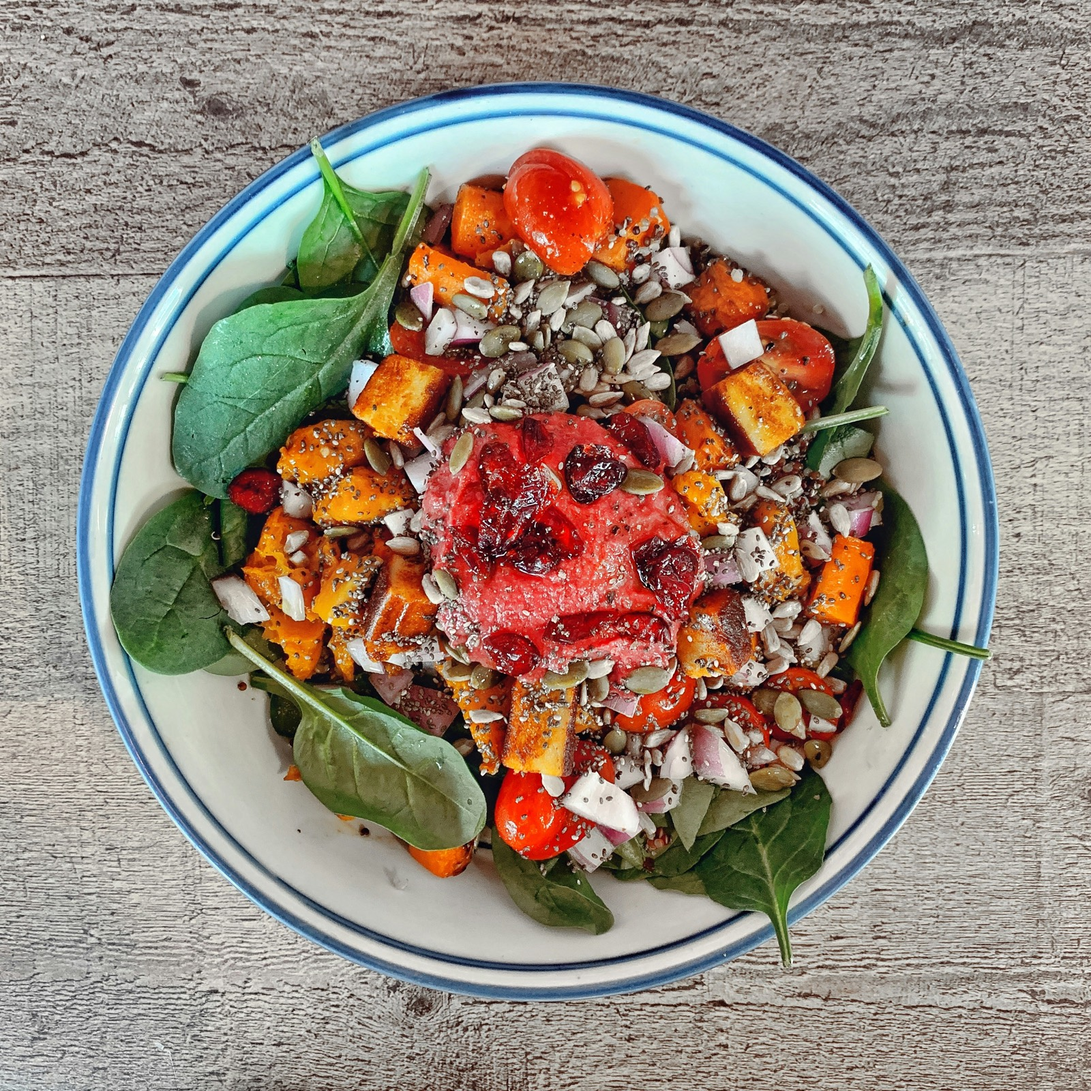
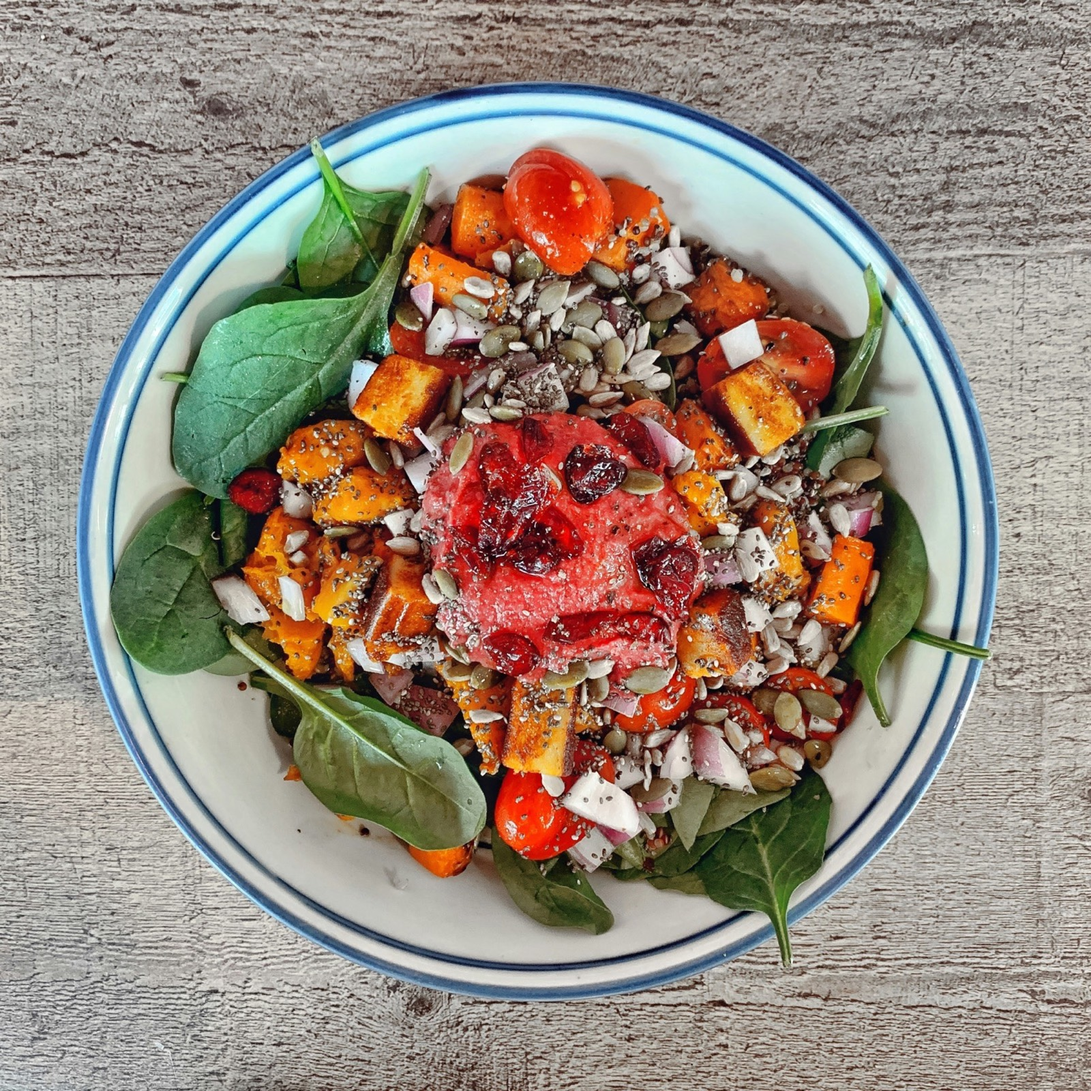
Image changes, page enhancements

Changed region(s): [[0.4688, 0.4375, 0.5, 0.4688]]

diff --git a/app/page.tsx b/app/page.tsx
@@ -12,7 +12,7 @@ const greatVibes = Great_Vibes({
   weight: "400",
 });
 
-const photoImagePaths = ["/food-optimized.jpg", "/food-optimized.jpg", "/food-optimized.jpg"];
+const photoImagePaths = ["/standing_couple_hero.jpg", "/chest_couple_bottom2.jpg", "/ring_2_bottom2.jpg"];
 
 export default function Home() {
   const [locale, setLocale] = useState<Locale>("fr");
@@ -52,7 +52,7 @@ export default function Home() {
         coupleNames: "Georges & Christella",
         heroKicker: "Nous nous marions",
         heroDate: "15 août 2026",
-        intro: "Nous saurions ravis de célébrer ce moment avec vous. Merci de confirmer votre présence ci-dessous.",
+        intro: <>Nous saurions ravis de célébrer ce moment avec vous. Merci de confirmer votre présence ci-dessous avant le <strong>1er juillet 2026</strong>.</>,
         announcement: (
           <>
             C&apos;est avec une immense joie que les familles de <strong>Samuel Simon Boum</strong> et{" "}
@@ -151,26 +151,34 @@ export default function Home() {
               </div>
             </div>
 
-            <div className="hidden gap-3 sm:grid sm:grid-cols-3">
-              {photoImagePaths.slice(0, 3).map((src, index) => (
-                <figure
-                  key={index}
-                  className={`group relative overflow-hidden rounded-2xl bg-[var(--surface-soft)] shadow-[0_10px_30px_rgba(51,44,48,0.08)] ${
-                    index === 1 ? "aspect-[3/4] -mt-3 shadow-[0_14px_36px_rgba(51,44,48,0.14)]" : "aspect-[4/5] mt-3"
-                  }`}
-                >
-                  <Image
-                    src={src}
-                    alt={t.heroPhotoAlts[index] ?? `Couple photo ${index + 1}`}
-                    fill
-                    className={`object-cover transition duration-500 ${
-                      index === 1 ? "scale-[1.03] saturate-110" : "group-hover:scale-[1.02]"
-                    }`}
-                    sizes="(min-width: 1024px) 320px, (min-width: 640px) 33vw, 100vw"
-                    priority={index === 1}
-                  />
-                </figure>
-              ))}
+            <div className="hidden w-full space-y-3 sm:block">
+              <figure className="relative aspect-[16/10] overflow-hidden rounded-2xl bg-[var(--surface-soft)] shadow-[0_10px_30px_rgba(51,44,48,0.08)] sm:aspect-[16/9]">
+                <Image
+                  src={photoImagePaths[0]}
+                  alt={t.heroPhotoAlts[0] ?? "Couple hero photo"}
+                  fill
+                  className="object-cover"
+                  sizes="(min-width: 1024px) 832px, 100vw"
+                  priority
+                />
+              </figure>
+
+              <div className="grid w-full grid-cols-2 gap-3">
+                {photoImagePaths.slice(1, 3).map((src, index) => (
+                  <figure
+                    key={`${src}-${index}`}
+                    className="relative aspect-[5/4] overflow-hidden rounded-2xl bg-[var(--surface-soft)] shadow-[0_10px_30px_rgba(51,44,48,0.08)]"
+                  >
+                    <Image
+                      src={src}
+                      alt={t.heroPhotoAlts[index + 1] ?? `Couple photo ${index + 2}`}
+                      fill
+                      className="object-cover"
+                      sizes="(min-width: 1024px) 400px, 50vw"
+                    />
+                  </figure>
+                ))}
+              </div>
             </div>
           </div>
 
@@ -217,6 +225,16 @@ export default function Home() {
             </div>
           </div>
         </section>
+
+        <figure className="relative mx-auto w-full max-w-2xl overflow-hidden rounded-2xl bg-[var(--surface-soft)] shadow-[0_10px_30px_rgba(51,44,48,0.08)] aspect-[16/10] sm:aspect-[16/9]">
+          <Image
+            src="/laughing_couple_bottomPage.jpg"
+            alt="Georges and Christella laughing together"
+            fill
+            className="object-cover"
+            sizes="(min-width: 1024px) 832px, 100vw"
+          />
+        </figure>
 
         <p className="font-display mx-auto w-full max-w-prose text-lg leading-8 sm:text-xl text-center">{t.intro}</p>
         

diff --git a/components/RsvpForm.tsx b/components/RsvpForm.tsx
@@ -61,7 +61,6 @@ export function RsvpForm({ locale = "en" }: { locale?: Locale }) {
       en: {
         kicker: "Guest Response",
         title: "RSVP",
-        deadline: "Please send your response by July 1st, 2026.",
         inviteCode: "Invitation code *",
         inviteCodeHint: "Use the code included in your invitation email or link.",
         checkingCode: "Checking code...",
@@ -86,9 +85,8 @@ export function RsvpForm({ locale = "en" }: { locale?: Locale }) {
       fr: {
         kicker: "Réponse des invites",
         title: "RSVP",
-        deadline: "Merci de répondre avant le 1er juillet 2026.",
         inviteCode: "Code d'invitation *",
-        inviteCodeHint: "Utilisez le code reçu dans votre email d'invitation.",
+        inviteCodeHint: "Utilisez le code reçu dans votre courriel d'invitation.",
         checkingCode: "Vérification du code...",
         inviteFoundPrefix: "Invitation trouvée pour",
         inviteLimitPrefix: "Cette invitation permet jusqu'à",
@@ -273,9 +271,6 @@ export function RsvpForm({ locale = "en" }: { locale?: Locale }) {
       <div className="space-y-2">
         <p className="text-xs font-semibold uppercase tracking-[0.12em]">{t.kicker}</p>
         <h2 className="font-display text-5xl leading-none">{t.title}</h2>
-        <p className="inline-block rounded-xl border border-[var(--border-muted)] bg-white/70 px-3 py-2 text-sm leading-6">
-          {t.deadline}
-        </p>
       </div>
 
       <div className="grid gap-4 sm:grid-cols-2">
